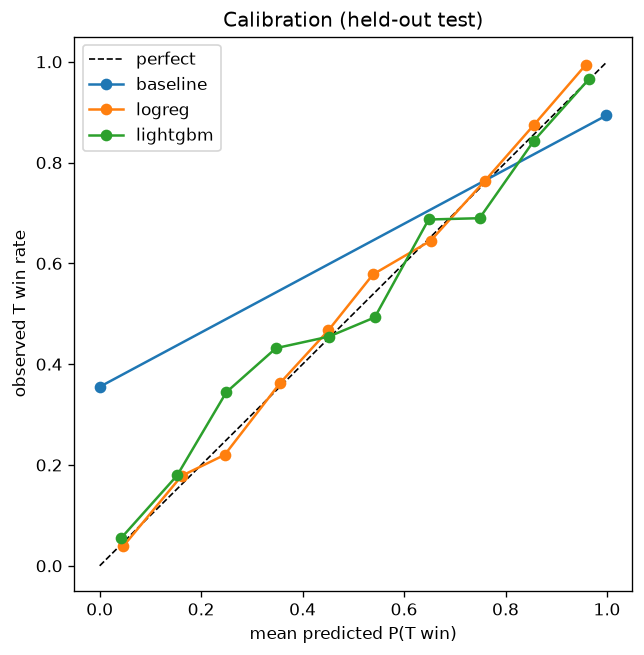
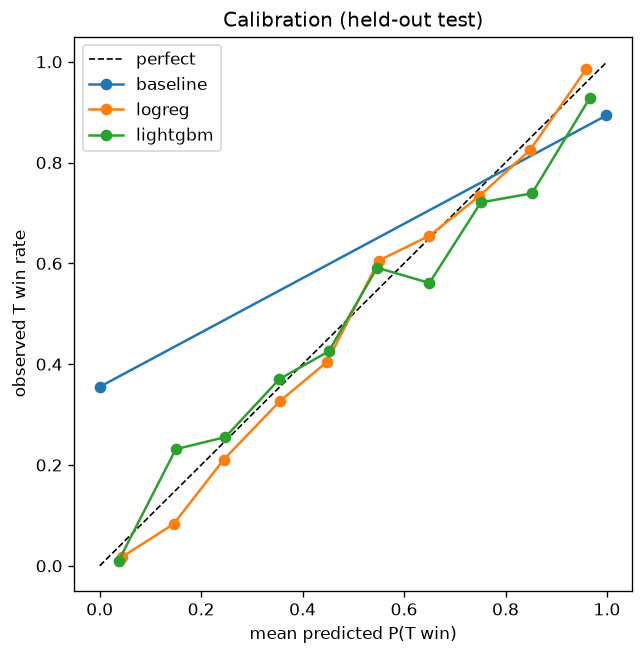
Add secondary features (economy, utility, kits, score) -> 80.3% accuracy
features.py: pull current_equip_value, has_defuser, inventory, team_rounds_total
per tick and aggregate into equip_value_t/ct, utility_t/ct (grenade counts),
defuse_kits_ct, score_diff (all for living players). bomb_site was dropped —
demoparser2 returns map-specific entity IDs, not A/B.

train.py: build_X folds a map one-hot into the numeric matrix so the deployed
StandardScaler+LogReg still reduces to a single linear kernel at serve time.
api.py: GameState grows to 21 features incl. map; kernel expands the one-hot.

Result (held-out, series-level): logreg 73.6% -> 80.3% accuracy, log-loss
0.478 -> 0.415; +8.9pp over baseline. equip_value_t/ct are the top-2 features
by gain — economy was the model's biggest blind spot. Same men/HP/bomb but
T-eco vs CT-full-buy swings P(T win) 0.76 -> 0.34.

Changed region(s): [[0.1553, 0.0916, 0.9317, 0.8855], [0.3416, 0.5802, 0.3727, 0.6107]]

diff --git a/cs2wp/features.py b/cs2wp/features.py
@@ -31,7 +31,20 @@ DEFAULT_TICK_RATE = 64      # CS2 GOTV; verified per-demo below
 
 # Per-tick properties we pull (all validated against demoparser2 0.41.2).
 # team_num: 2 = TERRORIST side, 3 = CT side (current side at that tick).
-TICK_PROPS = ["health", "is_alive", "team_num", "is_bomb_planted"]
+TICK_PROPS = [
+    "health", "is_alive", "team_num", "is_bomb_planted",
+    # secondary (iteration two):
+    "current_equip_value",  # $ value of a player's current gear -> equipment/side
+    "has_defuser",          # CT defuse kit
+    "inventory",            # item-name list -> utility remaining
+    "team_rounds_total",    # this team's round score -> score differential
+]
+
+# Grenade item names in `inventory` (used to count utility remaining per side).
+GRENADES = frozenset({
+    "Flashbang", "Smoke Grenade", "High Explosive Grenade",
+    "Incendiary Grenade", "Molotov", "Decoy Grenade",
+})
 
 # --- Output schema ------------------------------------------------------------
 CORE_FEATURES = [
@@ -43,6 +56,20 @@ CORE_FEATURES = [
     "time_remaining",     # seconds on the active clock (round, or bomb if planted)
     "round_num",
 ]
+# Iteration-two features (see project doc §4). equip/utility/kits count only
+# living players (dead players hold no firepower); score_diff = T score - CT.
+SECONDARY_FEATURES = [
+    "equip_value_t",
+    "equip_value_ct",
+    "utility_t",
+    "utility_ct",
+    "defuse_kits_ct",
+    "score_diff",
+]
+# Categorical context, one-hot encoded downstream (in train.py). (bomb_site was
+# tried but demoparser2 returns map-specific entity IDs, not A/B — dropped.)
+CATEGORICAL = ["map"]
+
 LABEL = "t_win"           # 1 if the T side won the round, else 0
 GROUP_KEY = "match_id"    # split on this — never let a match cross the split
 
@@ -142,10 +169,22 @@ def build_snapshots(demo_path: str | Path, match_id: str | None = None) -> pd.Da
 
     is_t = td["team_num"] == TEAM_T
     is_ct = td["team_num"] == TEAM_CT
-    td["alive_t"] = (td["is_alive"] & is_t).astype(int)
-    td["alive_ct"] = (td["is_alive"] & is_ct).astype(int)
+    alive_t = td["is_alive"] & is_t
+    alive_ct = td["is_alive"] & is_ct
+    td["alive_t"] = alive_t.astype(int)
+    td["alive_ct"] = alive_ct.astype(int)
     td["hp_t"] = td["health"].where(is_t, 0)
     td["hp_ct"] = td["health"].where(is_ct, 0)
+    # --- secondary: equipment, utility, kits, score (living players only) ---
+    td["nades"] = td["inventory"].apply(
+        lambda inv: sum(i in GRENADES for i in inv) if inv is not None else 0)
+    td["equip_t"] = td["current_equip_value"].where(alive_t, 0)
+    td["equip_ct"] = td["current_equip_value"].where(alive_ct, 0)
+    td["util_t"] = td["nades"].where(alive_t, 0)
+    td["util_ct"] = td["nades"].where(alive_ct, 0)
+    td["kit_ct"] = (td["has_defuser"] & alive_ct).astype(int)
+    td["score_t"] = td["team_rounds_total"].where(is_t, 0)
+    td["score_ct"] = td["team_rounds_total"].where(is_ct, 0)
 
     agg = td.groupby("tick").agg(
         players_alive_t=("alive_t", "sum"),
@@ -153,6 +192,13 @@ def build_snapshots(demo_path: str | Path, match_id: str | None = None) -> pd.Da
         total_health_t=("hp_t", "sum"),
         total_health_ct=("hp_ct", "sum"),
         bomb_planted=("is_bomb_planted", "max"),
+        equip_value_t=("equip_t", "sum"),
+        equip_value_ct=("equip_ct", "sum"),
+        utility_t=("util_t", "sum"),
+        utility_ct=("util_ct", "sum"),
+        defuse_kits_ct=("kit_ct", "sum"),
+        score_t=("score_t", "max"),
+        score_ct=("score_ct", "max"),
     ).reset_index()
 
     # attach round meta + time features + label
@@ -179,6 +225,13 @@ def build_snapshots(demo_path: str | Path, match_id: str | None = None) -> pd.Da
                 "total_health_ct": int(r.total_health_ct),
                 "bomb_planted": planted,
                 "time_remaining": round(time_remaining, 2),
+                # secondary features
+                "equip_value_t": int(r.equip_value_t),
+                "equip_value_ct": int(r.equip_value_ct),
+                "utility_t": int(r.utility_t),
+                "utility_ct": int(r.utility_ct),
+                "defuse_kits_ct": int(r.defuse_kits_ct),
+                "score_diff": int(r.score_t) - int(r.score_ct),
                 LABEL: int(win["winner"].upper().startswith("T")),  # 'T'/'TERRORIST'
             }
         )

diff --git a/cs2wp/train.py b/cs2wp/train.py
@@ -32,7 +32,7 @@ from sklearn.pipeline import make_pipeline
 from sklearn.preprocessing import StandardScaler
 
 from cs2wp.baseline import predict_t_win
-from cs2wp.features import CORE_FEATURES, LABEL
+from cs2wp.features import CATEGORICAL, CORE_FEATURES, LABEL, SECONDARY_FEATURES
 
 SNAPSHOTS_PATH = Path("data/snapshots.parquet")
 MODEL_PATH = Path("models/model.pkl")
@@ -40,9 +40,20 @@ METRICS_PATH = Path("models/metrics.json")
 CALIB_PATH = Path("models/calibration.png")
 
 SPLIT_KEY = "series_id"   # group by series, NOT match_id (maps share teams)
-FEATURES = CORE_FEATURES  # 7 core features
+NUMERIC = CORE_FEATURES + SECONDARY_FEATURES   # 7 core + 6 secondary
 RANDOM_STATE = 42
 PROBA_CLIP = 1e-3         # keep baseline's hard 0/1 out of log(0)
+
+
+def build_X(df: pd.DataFrame) -> pd.DataFrame:
+    """Numeric feature matrix: core + secondary, plus one-hot categoricals
+    (map). One-hot columns are folded into the numeric matrix so the deployed
+    StandardScaler+LogReg still reduces to a single linear kernel at serve time."""
+    X = df[NUMERIC].copy()
+    X["bomb_planted"] = X["bomb_planted"].astype(int)
+    for cat in CATEGORICAL:
+        X = pd.concat([X, pd.get_dummies(df[cat], prefix=cat).astype(int)], axis=1)
+    return X
 
 
 def _make_logreg():
@@ -118,14 +129,14 @@ def _save_calibration_plot(curves: dict, path: Path) -> None:
 
 def main() -> None:
     df = pd.read_parquet(SNAPSHOTS_PATH)
-    X_all = df[FEATURES].copy()
-    X_all["bomb_planted"] = X_all["bomb_planted"].astype(int)
+    X_all = build_X(df)
+    features = list(X_all.columns)   # full ordered list incl. map_* one-hots
     y_all = df[LABEL].astype(int)
     groups_all = df[SPLIT_KEY]
 
     n_series = groups_all.nunique()
     print(f"Data: {len(df)} snapshots, {df['match_id'].nunique()} maps, "
-          f"{n_series} series | overall T-win {y_all.mean():.3f}")
+          f"{n_series} series | {len(features)} features | overall T-win {y_all.mean():.3f}")
 
     # --- series-level held-out test split ---
     gss = GroupShuffleSplit(n_splits=1, test_size=0.25, random_state=RANDOM_STATE)
@@ -175,7 +186,7 @@ def main() -> None:
 
     # feature importances (gain) for the LightGBM model
     importances = dict(sorted(
-        zip(FEATURES, (lgb.Booster(model_str=lgbm.booster_.model_to_string())
+        zip(features, (lgb.Booster(model_str=lgbm.booster_.model_to_string())
                        .feature_importance(importance_type="gain")).tolist()),
         key=lambda kv: -kv[1]))
 
@@ -192,19 +203,19 @@ def main() -> None:
     print(f"\nHEADLINE  best model = {best_name} vs baseline: "
           f"{headline['accuracy_gain_pp']:+} pp accuracy, "
           f"{headline['log_loss_reduction']:+} log-loss (lower is better)")
-    print("Feature importance (gain):",
-          {k: round(v) for k, v in importances.items()})
+    print("Top feature importance (gain):",
+          {k: round(v) for k, v in list(importances.items())[:12]})
 
     # --- persist ---
     MODEL_PATH.parent.mkdir(parents=True, exist_ok=True)
     with open(MODEL_PATH, "wb") as fh:
         pickle.dump({"model": best_model, "model_name": best_name,
-                     "features": FEATURES, "split_key": SPLIT_KEY}, fh)
+                     "features": features, "split_key": SPLIT_KEY}, fh)
     METRICS_PATH.write_text(json.dumps({
         "dataset": {"snapshots": len(df), "maps": int(df["match_id"].nunique()),
                     "series": int(n_series), "t_win_rate": round(float(y_all.mean()), 4)},
         "test_series": sorted(groups_all.iloc[te_idx].unique()),
-        "features": FEATURES,
+        "features": features,
         "models": results,
         "headline_vs_baseline": headline,
         "lightgbm_feature_importance_gain": {k: round(v) for k, v in importances.items()},

diff --git a/cs2wp/api.py b/cs2wp/api.py
@@ -61,8 +61,9 @@ app = FastAPI(title="CS2 Round Win-Probability", version="1.0.0", lifespan=lifes
 
 
 class GameState(BaseModel):
-    """A single round snapshot — must match features.CORE_FEATURES."""
+    """A single round snapshot — core + secondary features, plus the map."""
 
+    # core
     players_alive_t: int = Field(ge=0, le=5, examples=[2])
     players_alive_ct: int = Field(ge=0, le=5, examples=[1])
     total_health_t: int = Field(ge=0, le=500, examples=[200])
@@ -70,6 +71,14 @@ class GameState(BaseModel):
     bomb_planted: bool = Field(examples=[True])
     time_remaining: float = Field(ge=0, examples=[32.0])
     round_num: int = Field(ge=1, examples=[13])
+    # secondary
+    equip_value_t: int = Field(ge=0, examples=[9200])
+    equip_value_ct: int = Field(ge=0, examples=[3400])
+    utility_t: int = Field(ge=0, examples=[3])
+    utility_ct: int = Field(ge=0, examples=[1])
+    defuse_kits_ct: int = Field(ge=0, le=5, examples=[1])
+    score_diff: int = Field(examples=[2])
+    map: str = Field(examples=["de_nuke"], description="e.g. de_mirage, de_nuke")
 
 
 class Prediction(BaseModel):
@@ -77,10 +86,15 @@ class Prediction(BaseModel):
 
 
 def _proba(state: GameState) -> float:
-    feats = _STATE["features"]
-    row = state.model_dump()
-    row["bomb_planted"] = int(row["bomb_planted"])
-    x = np.fromiter((row[f] for f in feats), dtype=np.float64, count=len(feats))
+    d = state.model_dump()
+    d["bomb_planted"] = int(d["bomb_planted"])
+    map_col = f"map_{d.pop('map')}"
+    # map_* one-hot columns (from train's build_X) are set from the map string;
+    # everything else is read straight off the request.
+    x = np.fromiter(
+        ((1.0 if f == map_col else 0.0) if f.startswith("map_") else float(d[f])
+         for f in _STATE["features"]),
+        dtype=np.float64, count=len(_STATE["features"]))
     kernel = _STATE["kernel"]
     if kernel is not None:                      # fast linear path
         w, b = kernel

diff --git a/README.md b/README.md
@@ -11,19 +11,23 @@ Full plan: [`cs2-win-probability-project.md`](cs2-win-probability-project.md).
 
 Built from **22,706 labeled snapshots** parsed out of **44 pro demo maps** across
 **16 series** (BLAST Bounty S2 + IEM Cologne Major 2026), split at the **series
-level** so no team appears in both training and test.
+level** so no team appears in both training and test. **21 features**: 7 core
+(alive/HP per side, bomb, time, round) + 6 secondary (equipment value, utility,
+defuse kits, score differential) + a map one-hot.
 
 | | Accuracy | Log-loss |
 |---|---|---|
 | Man-advantage baseline | 71.4% | 1.974 |
-| **Logistic regression** (deployed) | **73.6%** | **0.478** |
-| LightGBM | 72.3% | 0.498 |
+| **Logistic regression** (deployed) | **80.3%** | **0.415** |
+| LightGBM | 76.9% | 0.467 |
 
-The trained model beats the baseline by **+2.2 pp accuracy** and cuts **log-loss
-76%** — the headline being *calibration*: it turns hard 0/1 guesses into
-probabilities that hold up (see `models/calibration.png`). Served through FastAPI
-at **11,709 req/s, p99 9 ms** after folding the pipeline into a single weight
-vector (**419× faster** inference than the naive sklearn+DataFrame path).
+The trained model beats the baseline by **+8.9 pp accuracy** and cuts **log-loss
+79%** — the headline being *calibration*: it turns hard 0/1 guesses into
+probabilities that hold up (see `models/calibration.png`). **Equipment value is
+the single strongest feature** — the eco/full-buy signal a bodies-and-HP model is
+blind to. Served through FastAPI at **11,709 req/s, p99 9 ms** after folding the
+pipeline into a single weight vector (**419× faster** inference than the naive
+sklearn+DataFrame path).
 
 **▶ Live demo — animated win-probability replay of a held-out round:**
 <https://claude.ai/code/artifact/6eba7aea-3a9b-457d-af11-535a67a42390>
